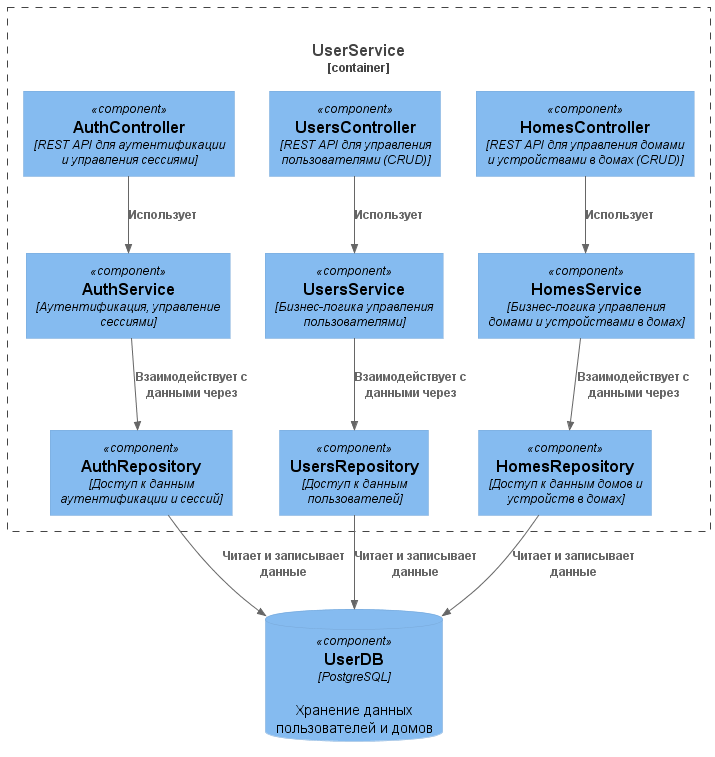
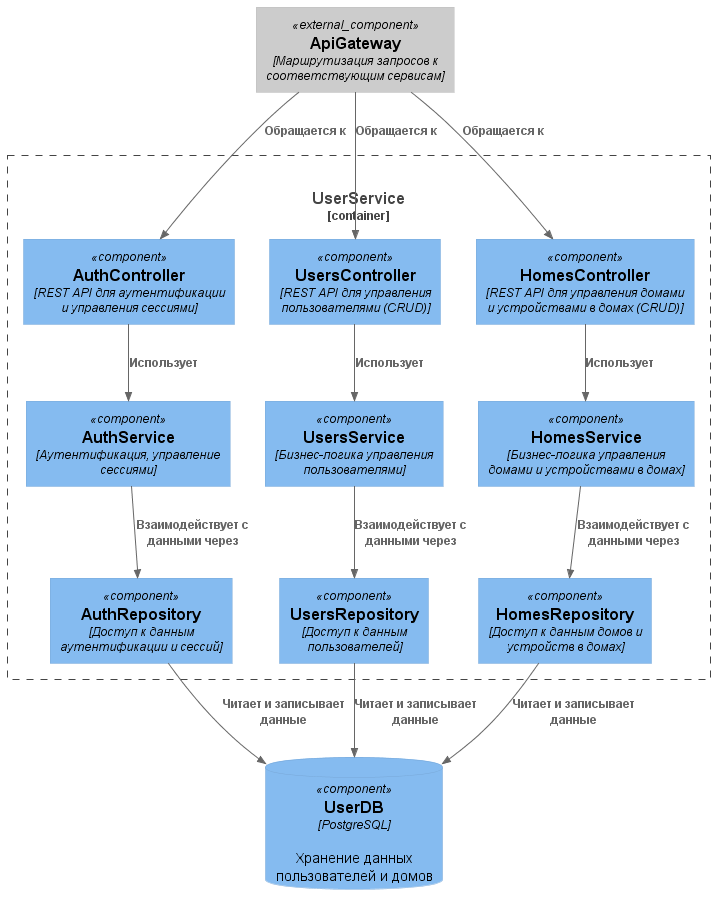
Изменение схемы UserService.puml

diff --git a/README.md b/README.md
@@ -51,7 +51,6 @@
 
 **Диаграмма компонентов (Components)**
 
-UserService
 ![Диаграмма компонента UserService](schemas/to-be/UserService.png)
 
 **Диаграмма кода (Code)**
